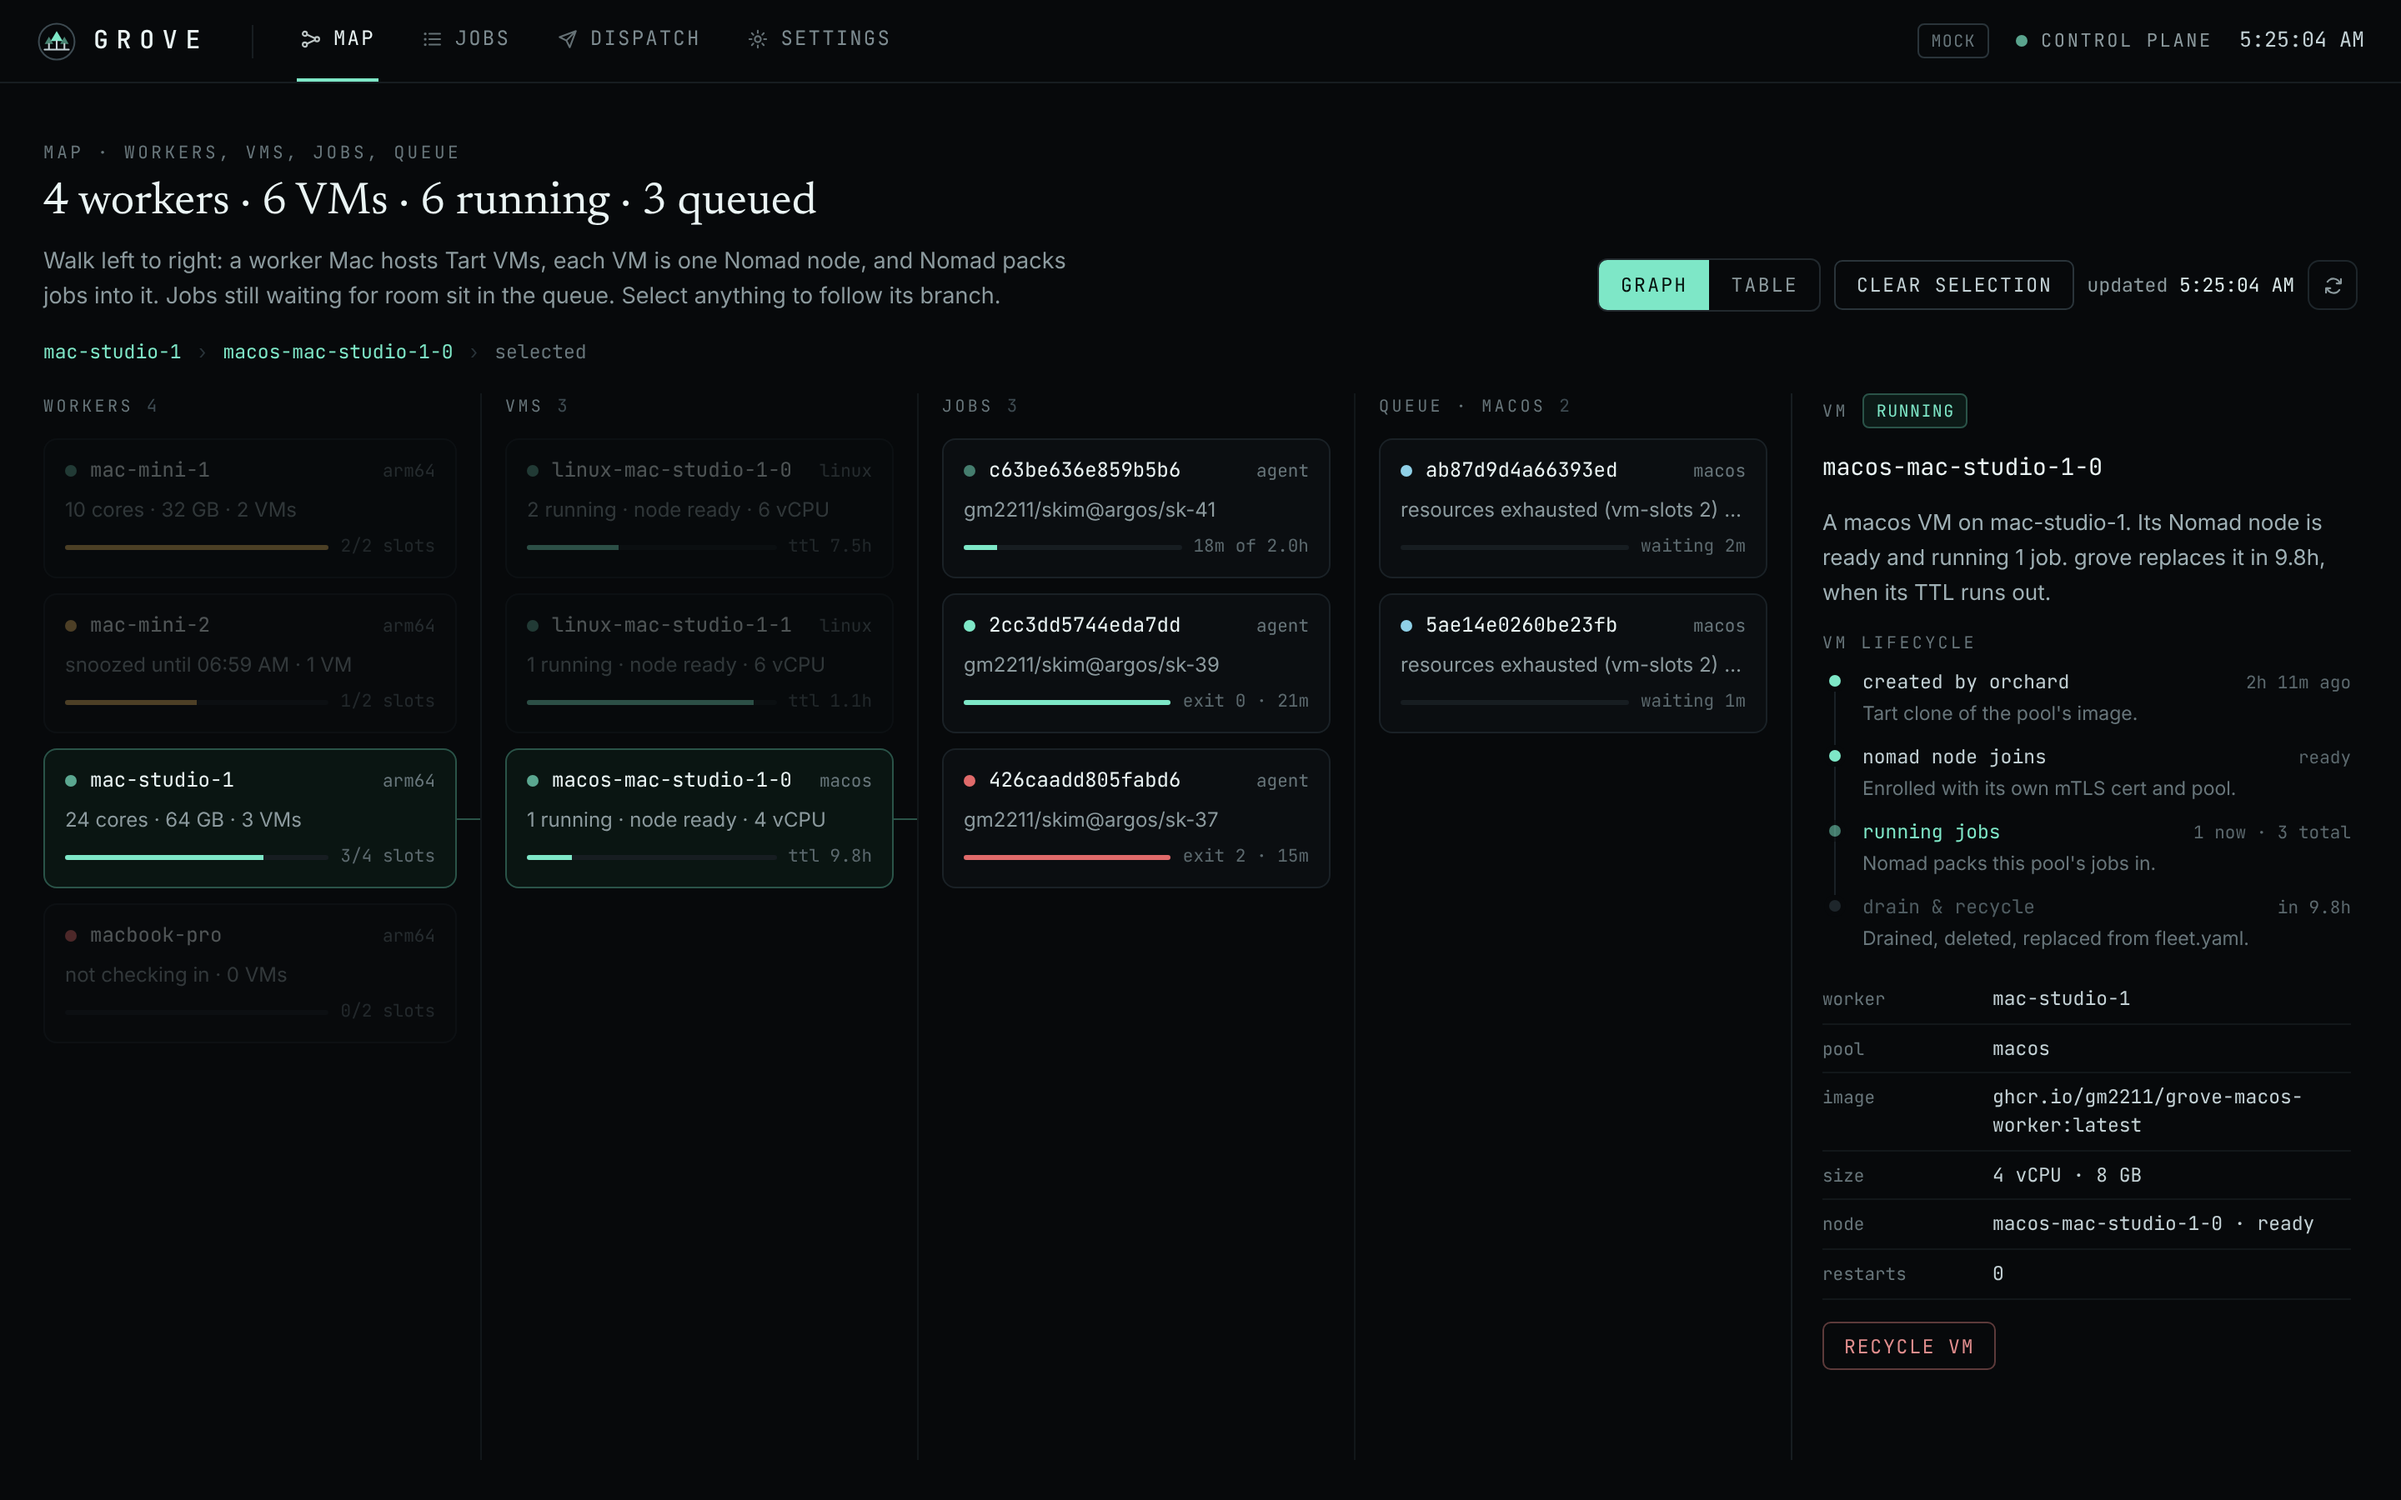
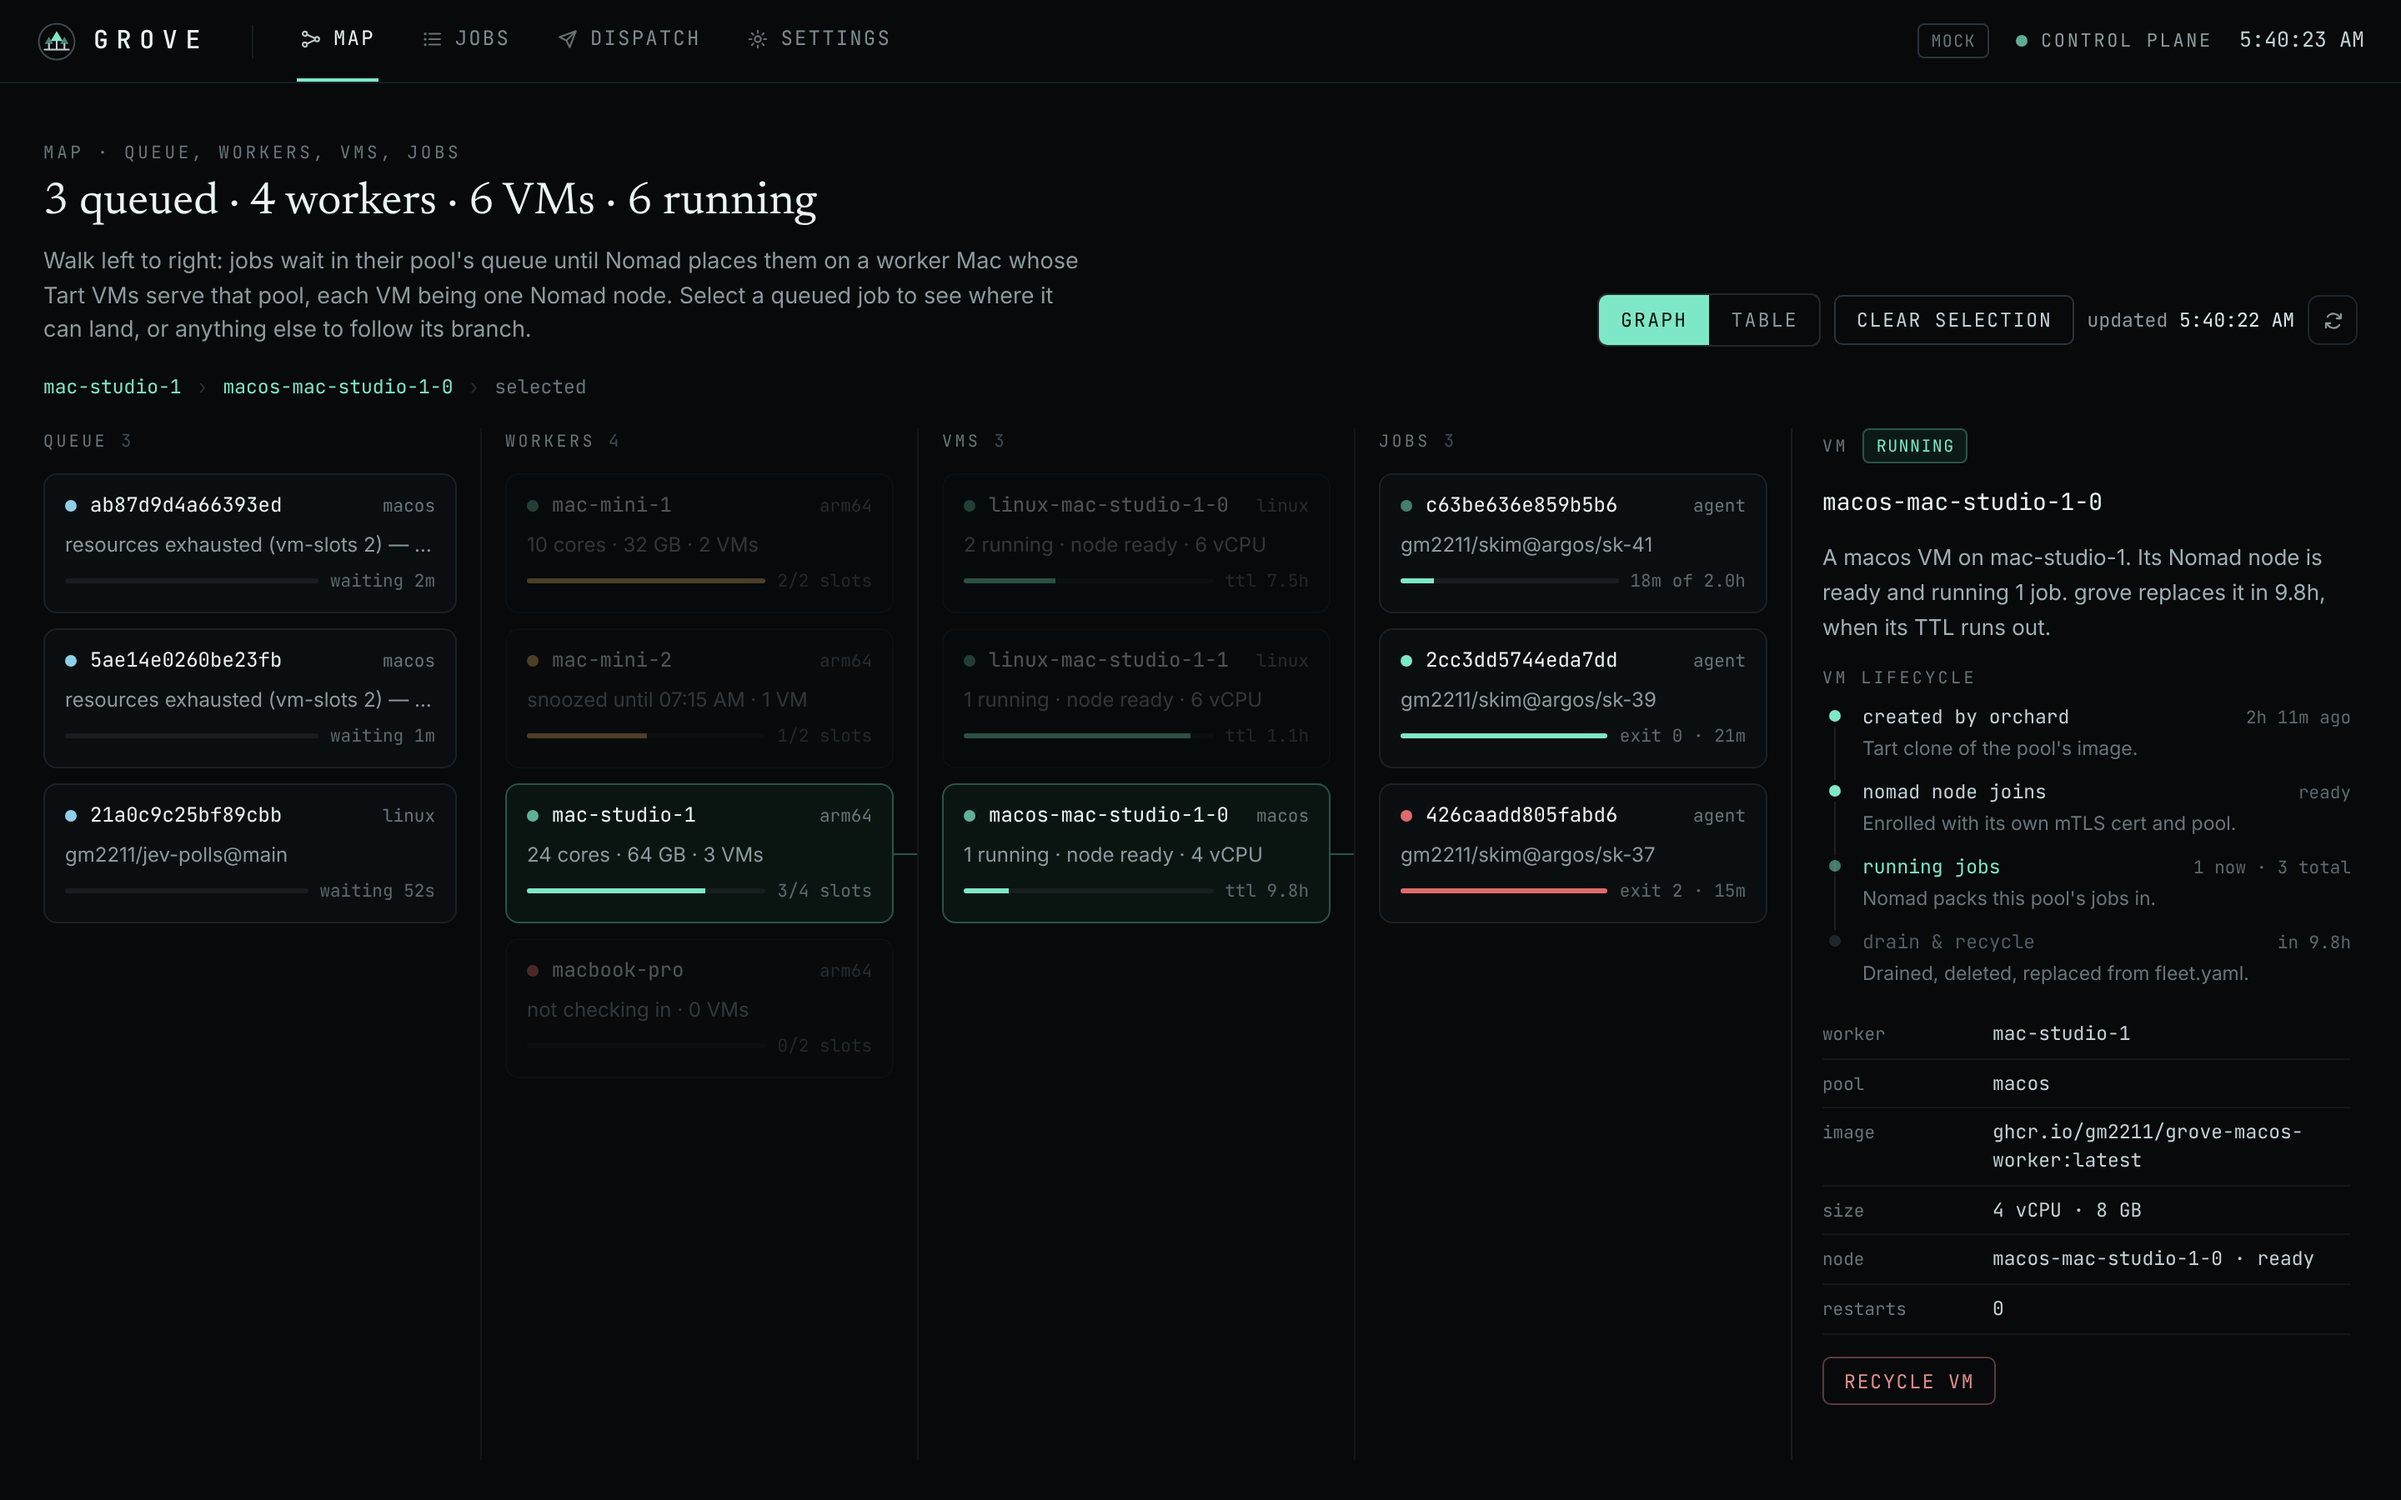
ui: map reads queue first, then workers, VMs, jobs
Jobs wait in their pool's queue until Nomad places them on a VM of a
compatible worker, so the map now walks that order. Selecting a queued job
dims the Macs with no VM of its pool and lists every VM it could land on.

Claude-Session: https://claude.ai/code/session_01QrkMfr1nDbTRAadN4ZLDqA

diff --git a/ui/src/pages/Map.tsx b/ui/src/pages/Map.tsx
@@ -12,10 +12,10 @@ import { buildFleetModel, workerStatus, type FleetModel, type VMView, type Worke
 import { formatClock, formatShort, parseGoDurationMs, shortRepo } from "../lib/format";
 
 /**
- * The live map, after Argos's: walk left to right from a worker Mac to the VMs it hosts to the
- * jobs Nomad packed into each VM, with the queue of jobs still waiting for room on the far
- * right. Selecting anything lights its branch, dims the rest, and opens it in the detail
- * column. The selection lives in the URL (?w=&v=&j=) so a view can be linked.
+ * The live map, after Argos's, laid out the way a job travels: the per-pool queue, then the
+ * worker Macs Nomad places onto, their VMs, and the jobs packed into each VM. Selecting a queued
+ * job lights the Macs and VMs of its pool; selecting anything else lights its branch, dims the
+ * rest, and opens it in the detail column. The selection lives in the URL (?w=&v=&j=) so a view can be linked.
  */
 export function MapPage() {
   const qc = useQueryClient();
@@ -49,19 +49,19 @@ export function MapPage() {
   };
 
   const headline = [
+    `${model.queue.length} queued`,
     plural(model.workers.length, "worker"),
     plural(model.vmCount, "VM"),
     `${model.runningJobs} running`,
-    `${model.queue.length} queued`,
   ].join(" · ");
   const updated = Math.max(fleet.dataUpdatedAt, jobs.dataUpdatedAt);
 
   return (
     <View fill>
       <ViewHead
-        kicker="Map · workers, VMs, jobs, queue"
+        kicker="Map · queue, workers, VMs, jobs"
         title={headline}
-        lede="Walk left to right: a worker Mac hosts Tart VMs, each VM is one Nomad node, and Nomad packs jobs into it. Jobs still waiting for room sit in the queue. Select anything to follow its branch."
+        lede="Walk left to right: jobs wait in their pool's queue until Nomad places them on a worker Mac whose Tart VMs serve that pool, each VM being one Nomad node. Select a queued job to see where it can land, or anything else to follow its branch."
         actions={
           <>
             <div className="seg">
@@ -177,30 +177,51 @@ function Graph({
   sel: Selection;
   pick: (s: { w?: string; v?: string; j?: string }) => void;
 }) {
-  const vms = sel.worker?.vms ?? [];
+  // A queued job hasn't been placed yet: light up the workers and VMs its pool could land on.
+  const queuedPool = sel.job?.status === "pending" ? sel.job.request.pool : undefined;
+  const canTake = (w: WorkerView, pool: string) => w.vms.some((v) => v.vm.pool === pool);
+  const vms = queuedPool
+    ? model.workers.flatMap((w) => w.vms.filter((v) => v.vm.pool === queuedPool))
+    : (sel.worker?.vms ?? []);
   const vmJobs = sel.vm ? sel.vm.jobs.slice(0, 8) : [];
-  const pools = new Set((sel.vm ? [sel.vm] : vms).map((v) => v.vm.pool).filter(Boolean));
-  const queue = sel.worker ? model.queue.filter((j) => pools.has(j.request.pool)) : model.queue;
-  const queueLabel = sel.worker && pools.size > 0 ? [...pools].join(", ") : "all pools";
+  const workerPools = new Set((sel.worker?.vms ?? []).map((v) => v.vm.pool).filter(Boolean));
 
   return (
     <div className="mapgrid">
+      <Column label="Queue" count={model.queue.length} empty="nothing waiting · every job found a slot">
+        {model.queue.map((j) => (
+          <QueuedNode
+            key={j.id}
+            job={j}
+            on={sel.job?.id === j.id}
+            dim={queuedPool ? sel.job?.id !== j.id : !!sel.worker && !workerPools.has(j.request.pool)}
+            onPick={() => pick({ j: j.id })}
+          />
+        ))}
+      </Column>
+
       <Column label="Workers" count={model.workers.length} empty="no workers have joined yet · run grove setup on a Mac">
         {model.workers.map((w) => (
           <WorkerNode
             key={w.name}
             w={w}
-            on={sel.worker?.name === w.name}
-            dim={!!sel.worker && sel.worker.name !== w.name}
+            on={queuedPool ? false : sel.worker?.name === w.name}
+            dim={queuedPool ? !canTake(w, queuedPool) : !!sel.worker && sel.worker.name !== w.name}
             onPick={() => pick({ w: w.name })}
           />
         ))}
       </Column>
 
       <Column
-        label="VMs"
-        count={sel.worker ? vms.length : undefined}
-        empty={sel.worker ? "no VMs on this worker · grove fleet apply creates them" : "select a worker"}
+        label={queuedPool ? `VMs · ${queuedPool} pool` : "VMs"}
+        count={sel.worker || queuedPool ? vms.length : undefined}
+        empty={
+          queuedPool
+            ? `no ${queuedPool} VMs yet · grove fleet apply creates them`
+            : sel.worker
+              ? "no VMs on this worker · grove fleet apply creates them"
+              : "select a worker"
+        }
       >
         {vms.map((v) => (
           <VMNode
@@ -208,7 +229,7 @@ function Graph({
             v={v}
             on={sel.vm?.vm.name === v.vm.name}
             dim={!!sel.vm && sel.vm.vm.name !== v.vm.name}
-            onPick={() => pick({ w: sel.worker?.name, v: v.vm.name })}
+            onPick={() => pick({ w: v.vm.host, v: v.vm.name })}
           />
         ))}
       </Column>
@@ -216,7 +237,7 @@ function Graph({
       <Column
         label="Jobs"
         count={sel.vm ? sel.vm.jobs.length : undefined}
-        empty={sel.vm ? "no jobs have run here yet" : "select a VM"}
+        empty={queuedPool ? "not placed yet · Nomad picks a VM with room" : sel.vm ? "no jobs have run here yet" : "select a VM"}
       >
         {vmJobs.map((j) => (
           <JobNode
@@ -230,18 +251,6 @@ function Graph({
         {sel.vm && sel.vm.jobs.length > vmJobs.length && (
           <span className="mapcol-empty">+{sel.vm.jobs.length - vmJobs.length} older on the Jobs page</span>
         )}
-      </Column>
-
-      <Column label={`Queue · ${queueLabel}`} count={queue.length} empty="nothing waiting · every job found a slot">
-        {queue.map((j) => (
-          <QueuedNode
-            key={j.id}
-            job={j}
-            on={sel.job?.id === j.id}
-            dim={sel.job?.status === "pending" && sel.job.id !== j.id}
-            onPick={() => pick({ j: j.id })}
-          />
-        ))}
       </Column>
 
       <MapDetail model={model} sel={sel} />
@@ -433,7 +442,6 @@ function QueuedNode({ job, on, dim, onPick }: { job: Job; on: boolean; dim: bool
       pct={0}
       on={on}
       dim={dim}
-      link={false}
       onPick={onPick}
     />
   );

diff --git a/README.md b/README.md
@@ -18,10 +18,11 @@ next to your other work on the bare host.
 
 ## The live map
 
-![grove's live map: worker Macs on the left, their Tart VMs, the jobs Nomad packed into each VM, the queue, and the selected job's lifecycle and live log](docs/screenshots/map.png)
+![grove's live map: the queue of waiting jobs on the left, then worker Macs, their Tart VMs, the jobs Nomad packed into each VM, and the selected job's lifecycle and live log](docs/screenshots/map.png)
 
-Walk left to right from a worker Mac to the VMs it hosts to the jobs running in each one, with
-the queue of jobs still waiting for room alongside. Select anything to follow its branch: a
+Walk left to right the way a job does: it waits in its pool's queue until Nomad places it on a
+worker Mac whose VMs serve that pool, then runs in one of those VMs. Select a queued job to see
+which Macs and VMs it can land on, or anything else to follow its branch: a
 worker can be paused, snoozed or woken, a VM recycled, a job followed or cancelled, right there.
 
 <details>

diff --git a/ui/README.md b/ui/README.md
@@ -54,8 +54,9 @@ not built, run `make ui`" page until you build the UI for real.
 ## Pages
 
 - **Map** (`/map`, the default; `/fleet` redirects here) — the live map, after Argos's: columns
-  for worker Macs → their Tart VMs (one Nomad node each, same name) → the jobs on the selected VM,
-  plus the queue of pending jobs for the selected pools, and a detail column for the selection
+  in the order a job travels: the queue of pending jobs → worker Macs → their Tart VMs (one Nomad
+  node each, same name) → the jobs on the selected VM. Selecting a queued job lights the Macs and
+  VMs of its pool. A detail column for the selection
   (lifecycle rail, live log tail, pause/snooze/wake/recycle/cancel). The selection lives in the URL
   (`?w=&v=&j=`). A Table toggle lists every VM flat. Macs waiting to join show above the columns.
   Polls fleet every 5s, jobs every 3s.

diff --git a/CHANGELOG.md b/CHANGELOG.md
@@ -4,8 +4,8 @@ All notable changes to grove are documented here.
 
 ## Unreleased
 
-- **The control-plane UI is a live map now.** Worker Macs, their VMs, the jobs running in each VM
-  and the queue sit in columns left to right, with a detail column for whatever is selected: its
+- **The control-plane UI is a live map now.** The queue, worker Macs, their VMs and the jobs running
+  in each VM sit in columns left to right, in the order a job travels, with a detail column for whatever is selected: its
   lifecycle, a live log tail for a running job, and the actions you'd take there (pause, snooze,
   wake, recycle, cancel). The look follows Argos: dark, mono labels, a serif headline per view.
   Jobs, job detail, Dispatch and Settings were restyled to match; `/fleet` links go to the map.
